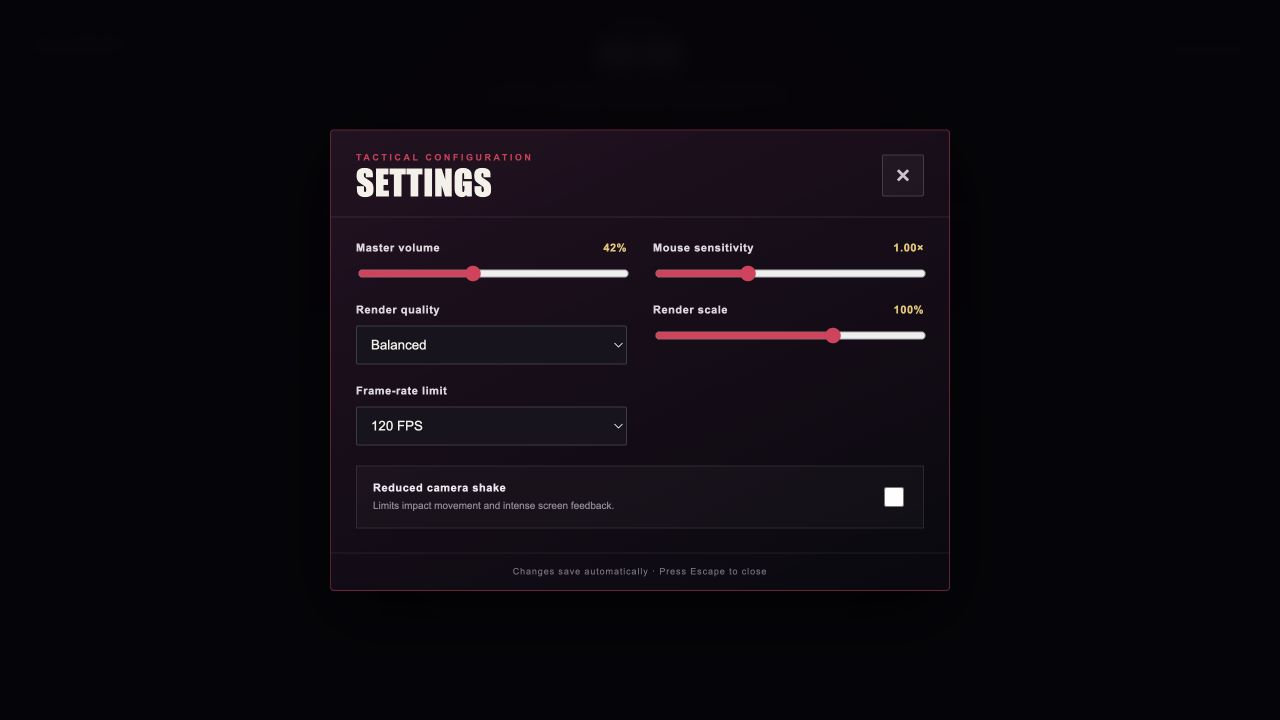
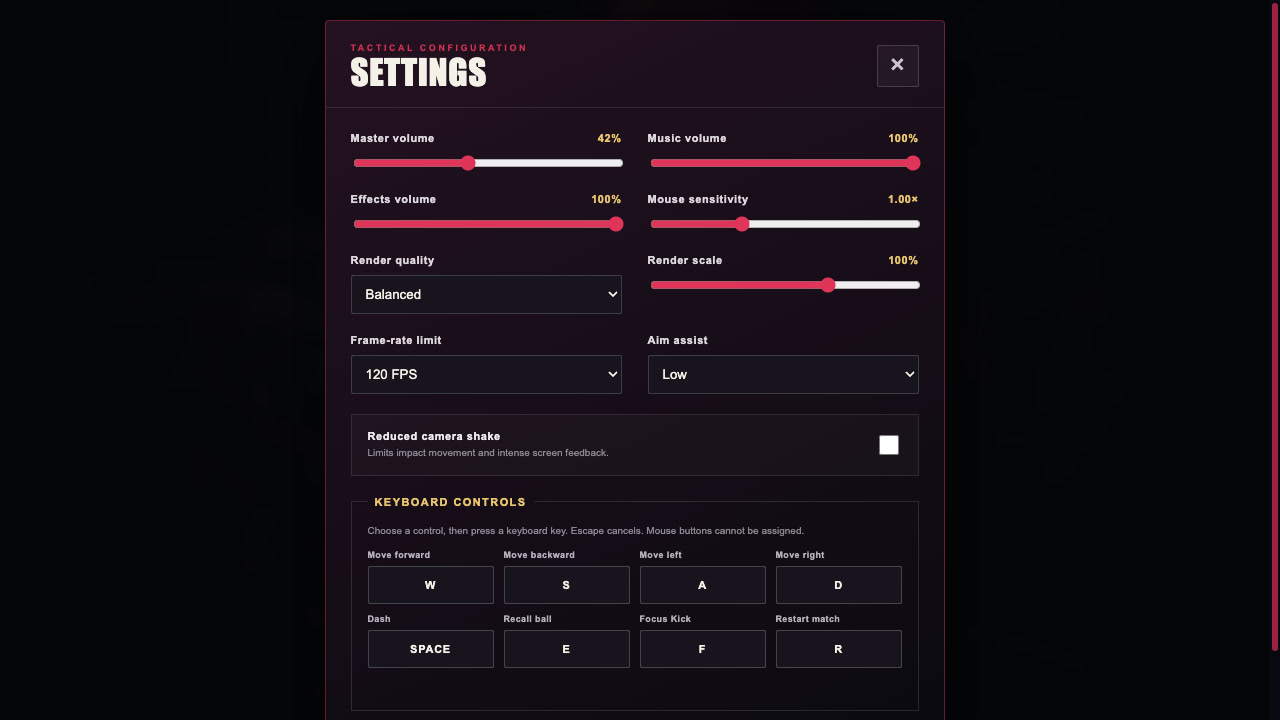
docs: refresh complete presentation screenshot set

diff --git a/docs/ASSET_INVENTORY.md b/docs/ASSET_INVENTORY.md
@@ -6,7 +6,7 @@ Inventory status as of 2026-07-14:
 
 - All current gameplay visuals are generated at runtime from authored TypeScript, Three.js primitives, materials, lights, and particles.
 - All current music and sound effects are synthesized at runtime with the Web Audio API.
-- The repository contains fourteen authored SVG progression icons, three authored JPEG screenshots, one generated key-art master, and two optimized key-art derivatives.
+- The repository contains fourteen authored SVG progression icons, seven authored JPEG screenshots, one generated key-art master, and two optimized key-art derivatives.
 - No imported 3D model, recorded audio, bundled font, or third-party player-facing asset is currently present.
 
 ## Field Definitions
@@ -58,13 +58,17 @@ The generated noise buffer is computed during runtime and is not an authored or 
 
 ## Repository Screenshots
 
-All current screenshots are direct captures of the running game and therefore depict the runtime visuals and authored interface listed above. The refreshed title capture includes the generated key-art background recorded in the asset register; the gameplay and settings captures contain no generated or third-party raster imagery.
+All current screenshots are direct 1280×720 captures of revision `dcf620b` in Chrome 149 and therefore depict the runtime visuals and authored interface listed above. They were exported from PNG to JPEG with FFmpeg (`-q:v 2`). The title capture includes the generated key-art background recorded in the asset register; the remaining captures contain no generated or third-party raster imagery.
 
-| Path                                | Source                           | Tool                                                      | License/ownership                                                        | Changes/current state                                                                                                                      |
-| ----------------------------------- | -------------------------------- | --------------------------------------------------------- | ------------------------------------------------------------------------ | ------------------------------------------------------------------------------------------------------------------------------------------ |
[3 lines of base64/hex data omitted]
+| Path                                   | Source                                                           | License/ownership                                                        | Changes/current state                                                                                        |
+| -------------------------------------- | ---------------------------------------------------------------- | ------------------------------------------------------------------------ | ------------------------------------------------------------------------------------------------------------ |
[7 lines of base64/hex data omitted]
 
 The capture method is recorded at the level verified by the repository history. If a release capture is cropped, color-corrected, composited, or exported through another tool, record that change and tool here before submission.
 

diff --git a/docs/ASSET_CREDITS.md b/docs/ASSET_CREDITS.md
@@ -4,12 +4,12 @@ This is the authoritative asset and license ledger. The submission-facing file i
 
 ## Project-Created Assets
 
-| Asset/path                                | Creator              | Tool                                   | Date              | Notes                                                                                                                    |
-| ----------------------------------------- | -------------------- | -------------------------------------- | ----------------- | ------------------------------------------------------------------------------------------------------------------------ |
-| Game design and source code               | Team (names pending) | Codex and local development tools      | 2026-07-14 onward | AI assistance must not be required at runtime                                                                            |
-| Procedural visuals, UI, and audio systems | Team (names pending) | TypeScript, Three.js, CSS, Web Audio   | 2026-07-14 onward | Generated at runtime from project source; no external media files                                                        |
-| `src/assets/progression/**/*.svg`         | Team (names pending) | Authored SVG/XML with Codex assistance | 2026-07-14        | Fourteen original upgrade/evolution icons using the project's locked palette; no external source art                     |
-| `docs/screenshots/*.jpg`                  | Team (names pending) | Local browser capture                  | 2026-07-14        | Three 1280×720 captures of the running game; the refreshed title capture composites the generated key art recorded below |
+| Asset/path                                | Creator              | Tool                                   | Date              | Notes                                                                                                              |
+| ----------------------------------------- | -------------------- | -------------------------------------- | ----------------- | ------------------------------------------------------------------------------------------------------------------ |
+| Game design and source code               | Team (names pending) | Codex and local development tools      | 2026-07-14 onward | AI assistance must not be required at runtime                                                                      |
+| Procedural visuals, UI, and audio systems | Team (names pending) | TypeScript, Three.js, CSS, Web Audio   | 2026-07-14 onward | Generated at runtime from project source; no external media files                                                  |
+| `src/assets/progression/**/*.svg`         | Team (names pending) | Authored SVG/XML with Codex assistance | 2026-07-14        | Fourteen original upgrade/evolution icons using the project's locked palette; no external source art               |
+| `docs/screenshots/*.jpg`                  | Team (names pending) | Chrome 149 DevTools capture and FFmpeg | 2026-07-14        | Seven 1280×720 captures from revision `dcf620b`; the title capture composites the generated key art recorded below |
 
 ## AI-Generated Assets
 

diff --git a/README.md b/README.md
@@ -26,9 +26,19 @@ The ball is the player's main weapon, defensive tool, positional risk, and key t
 
 ![Third-person gameplay in the cursed stadium](docs/screenshots/gameplay.jpg)
 
+### Progression
+
+![Three-choice upgrade selection with authored icons](docs/screenshots/upgrade.jpg)
+
+![Moon Breaker evolution unlock presentation](docs/screenshots/evolution.jpg)
+
 ### Settings
 
 ![Persistent graphics, frame-rate, audio, sensitivity, and camera settings](docs/screenshots/settings.jpg)
+
+### Results
+
+![Victory results with run grade and build metadata](docs/screenshots/results-victory.jpg)
 
 ## Design Pillars
 
@@ -160,7 +170,7 @@ The game uses no AI service at runtime. Browser and desktop releases share the s
 - [x] Deterministic full nine-minute stage/deadline/goal/halftime/boss outcome coverage and dense-crowd stress tests
 - [x] Development-only deterministic 72-enemy profiling scene with a read-only automation snapshot
 - [x] ESLint, Prettier, pinned Node/npm metadata, clean `npm ci`, and push/PR verification workflow
-- [x] Real title, gameplay, and settings screenshots stored in the repository and displayed above
+- [x] Current title, gameplay, upgrade, evolution, settings, pause, and results screenshots stored in the repository
 - [x] Ball stall/timeout/out-of-bounds recovery fail-safes
 - [x] Playable HUD with kickoff/death overlays, health, time, score, enemy count, ball state, and FPS
 - [x] Electron shell created and booted on macOS
